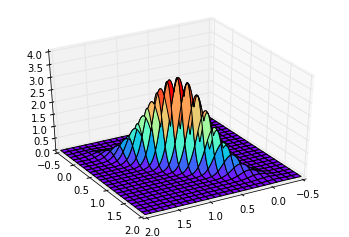
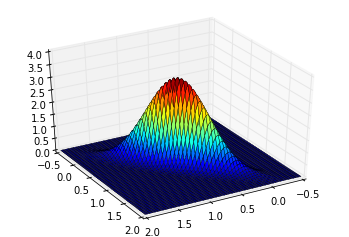
Better looking probdens

Changed region(s): [[0.1719, 0.3249, 0.8596, 0.9156]]

diff --git a/assignment-2/exercise1.py b/assignment-2/exercise1.py
@@ -14,7 +14,7 @@ from scipy.stats import multivariate_normal
 
 def surf_plot(mu_p, sigma_p):
 
-    x,y = np.meshgrid(np.linspace(-0.5,2,250), np.linspace(-0.5,2,250))
+    x,y = np.meshgrid(np.linspace(-0.5,2,300), np.linspace(-0.5,2,300))
     pos = np.empty(x.shape + (2,))
     pos[:, :, 0] = x; pos[:, :, 1] = y
     var = multivariate_normal(mean = np.array(mu_p).flatten(), cov = sigma_p)
@@ -23,7 +23,7 @@ def surf_plot(mu_p, sigma_p):
     ax = fig.add_subplot(111, projection='3d')
     ax.view_init(elev=35,azim=60)
 
-    ax.plot_surface(x,y, var.pdf(pos),cmap=cm.rainbow)
+    ax.plot_surface(x,y, var.pdf(pos),cmap=cm.jet, linewidth=0.35,rstride=5, cstride=5)
 
 def calculate_prior():
 
